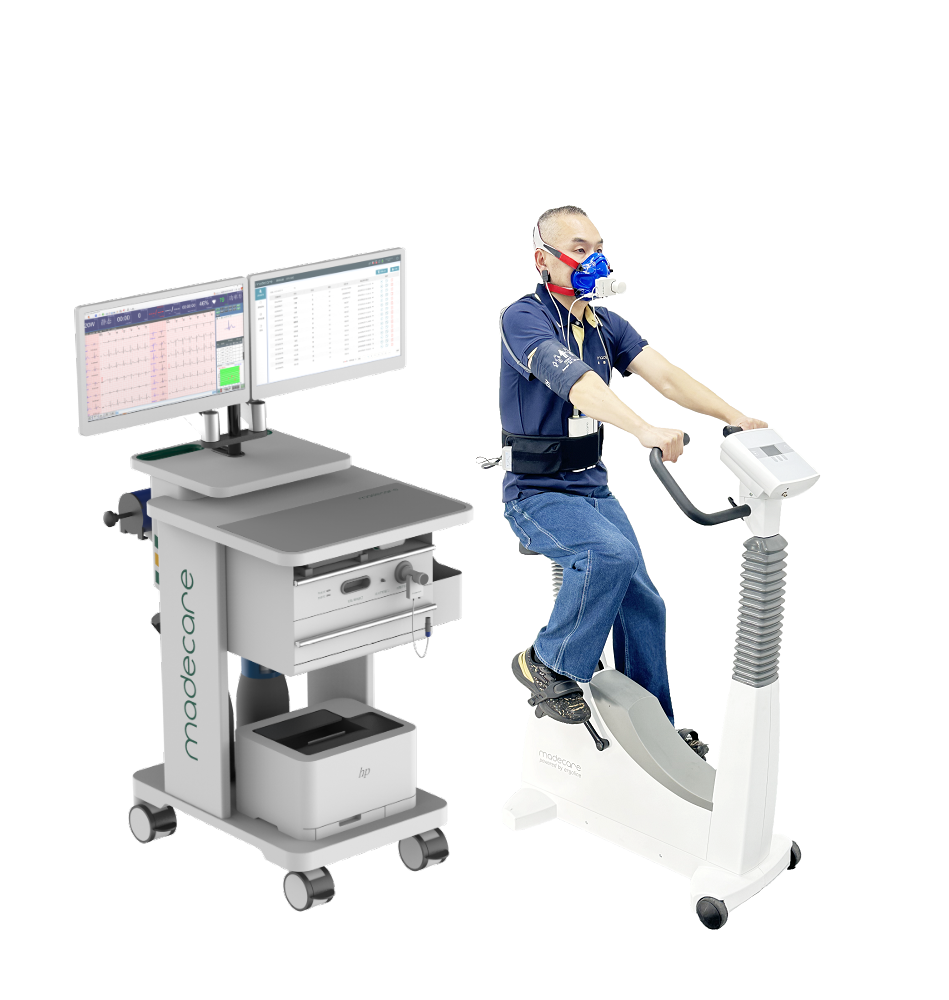
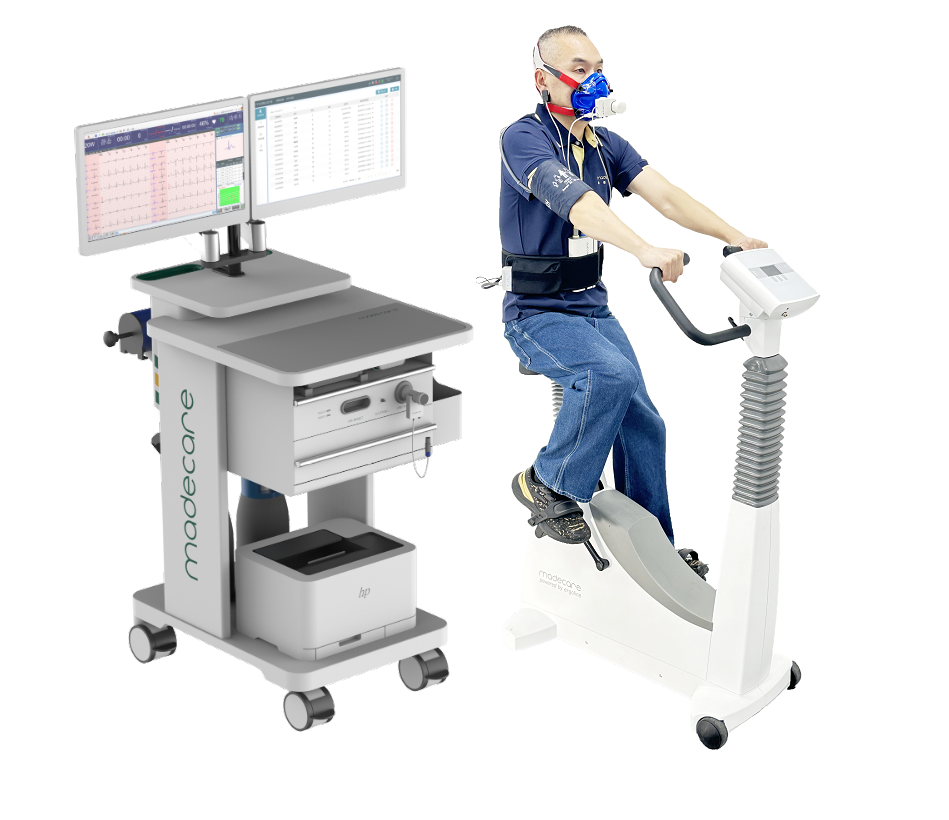
微调了标题和布局

diff --git a/mobile/views/madecare_En/index.html b/mobile/views/madecare_En/index.html
@@ -303,7 +303,7 @@
 								<p class="index-module--Index--kt_h8" style="margin-left:17%;margin-top: 53%;">02</p>
 							</div>
 						</div>
-						<div class="index-module--cpx_image--5HVyQ"><img style="width:130%; max-width:none;" src="../static/cpx_01-ac46733a08919b19c2545dc302897462.png" /></div>
+						<div class="index-module--cpx_image--5HVyQ"><img style="width:130%; max-width:none; margin-top: 2.5rem;" src="../static/cpx_01-ac46733a08919b19c2545dc302897462.png" /></div>
 					</div>
 					<div class="index-module--section--3EWX9" id="p6">
 						<div class="index-module--container--uLOrz">
@@ -409,20 +409,21 @@
 					</div>
 					<div class="index-module--section--3EWX9" id="p7rse">
 						<div class="word_fullscreen" style="display: block;margin-top: 3%;margin-left: 6%;white-space: normal;"><span style="display:inline-block;float:left;   color: #025361; font-weight: 700;"> |</span>&nbsp;&nbsp;Exercise ECG Testing System RSE</div>
-						<div class="word_fullscreen" style="display: block;margin-top: 2%;margin-left: 6%;white-space: normal;">High Anti-interference, High-fidelity Wireless Exercise ECG Testing System</div>
+						
 						<div style="float: left;width: 30%;    height: 100%;">
 							<div class="index-module--Index--kt_h8" style="margin-left: 28%;margin-top: 35%; float: left;">03</div>
 						</div>
 						<div style="    float: left;    width: 70%;">
 							<img style="    margin-top: 8%;" src="../static/rse_01-bdb5525c33f0da88b94d486255ce73b9.png">
 						</div>
+					<div style="width:100%;height:0;border-top:.125rem dashed #025361"></div>
 					</div>
 					<div class="index-module--section--3EWX9" id="p7rsed">
 						<div class="index-module--container--uLOrz">
 							<div class="index-module--cpx--1VqBL"><img src="../static/rse_02-f8d1ac3f93b2570fbf6f749e7b6ae062.png" /></div>
 							<div class="index-module--cpx_info--10ioq">
 								<div class="index-module--cpx_title--oURYN">
-										<div class="word_fullscreen" style="    white-space: nowrap;line-height:190%">Exercise ECG Testing System RSE</div>
+										<div class="word_fullscreen" style="    white-space: nowrap;line-height:190%">High Anti-interference, High-fidelity Wireless Exercise ECG Testing System</div>
 								</div>
 								<div>
 									<div class="index-module--cpx_function--2qBEA">
@@ -516,7 +517,6 @@
 					</div>
 					<div class="index-module--section--3EWX9" id="p7mwt">
 						<div class="word_fullscreen" style="display: block;margin-top: 3%;margin-left: 6%;white-space: normal;"><span style="display:inline-block;float:left;   color: #025361; font-weight: 700;"> |</span>&nbsp;&nbsp;Six-Minute Walk Test System RSE-6MWT</div>
-						<div class="word_fullscreen" style="display: block;margin-top: 2%;margin-left: 6%;white-space: normal;">Highly Integrated, Precise Ranging Six-Minute Walk Test System</div>
 						<div style="float: left;width: 30%;    height: 100%;">
 							<div class="index-module--Index--kt_h8" style="margin-left: 28%;margin-top: 10%; float: left;">04</div>
 						</div>
@@ -528,7 +528,7 @@
 							<div class="index-module--cpx--1VqBL"><img src="../static/mwt_02-f3e27240a00822573c5d9a3c1745a1a6.png" /></div>
 							<div class="index-module--cpx_info--10ioq">
 								<div class="index-module--cpx_title--oURYN">
-										<div class="word_fullscreen" style="    white-space: nowrap;line-height:190%">Six-Minute Walk Test System RSE-6MWT</div>
+										<div class="word_fullscreen" style="    white-space: nowrap;line-height:190%">Highly Integrated, Precise Ranging Six-Minute Walk Test System</div>
 								</div>
 								<div>
 									<div class="index-module--cpx_function--2qBEA">

diff --git a/mobile/views/index_mobile.html b/mobile/views/index_mobile.html
@@ -344,7 +344,7 @@
 								<p class="index-module--Index--kt_h8" style="margin-left:17%;margin-top: 53%;">02</p>
 							</div>
 						</div>
-						<div class="index-module--cpx_image--5HVyQ"><img style="width:130%; max-width:none;" src="./static/cpx_01-ac46733a08919b19c2545dc302897462.png" /></div>
+						<div class="index-module--cpx_image--5HVyQ"><img style="width:130%; max-width:none; margin-top: 2.5rem;" src="./static/cpx_01-ac46733a08919b19c2545dc302897462.png" /></div>
 					</div>
 					<div class="index-module--section--3EWX9" id="p6">
 						<div class="index-module--container--uLOrz">
@@ -450,20 +450,21 @@
 					</div>
 					<div class="index-module--section--3EWX9" id="p7rse">
 						<div class="word_fullscreen" style="display: block;margin-top: 3%;margin-left: 6%;white-space: normal;"><span style="display:inline-block;float:left;   color: #025361; font-weight: 700;"> |</span>&nbsp;&nbsp;运动心电测试系统RSE</div>
-						<div class="word_fullscreen" style="display: block;margin-top: 2%;margin-left: 6%;white-space: normal;">高抗干扰、高保真的无线运动心电测试系统</div>
+						
 						<div style="float: left;width: 30%;    height: 100%;">
 							<div class="index-module--Index--kt_h8" style="margin-left: 28%;margin-top: 20%; float: left;">03</div>
 						</div>
 						<div style="    float: left;    width: 70%;">
 							<img style="    margin-top: 8%;" src="./static/rse_01-bdb5525c33f0da88b94d486255ce73b9.png">
 						</div>
+					<div style="width:100%;height:0;border-top:.125rem dashed #025361"></div>
 					</div>
 					<div class="index-module--section--3EWX9" id="p7rsed">
 						<div class="index-module--container--uLOrz">
 							<div class="index-module--cpx--1VqBL"><img src="./static/rse_02-f8d1ac3f93b2570fbf6f749e7b6ae062.png" /></div>
 							<div class="index-module--cpx_info--10ioq">
 								<div class="index-module--cpx_title--oURYN">
-										<div class="word_fullscreen" style="    white-space: nowrap;line-height:190%">运动心电测试系统RSE</div>
+										<div class="word_fullscreen" style="    white-space: nowrap;line-height:190%">高抗干扰、高保真的无线运动心电测试系统</div>
 								</div>
 								<div>
 									<div class="index-module--cpx_function--2qBEA">
@@ -557,7 +558,6 @@
 					</div>
 					<div class="index-module--section--3EWX9" id="p7mwt">
 						<div class="word_fullscreen" style="display: block;margin-top: 3%;margin-left: 6%;white-space: normal;"><span style="display:inline-block;float:left;   color: #025361; font-weight: 700;"> |</span>&nbsp;&nbsp;六分钟步行实验测试系统RSE-6MWT</div>
-						<div class="word_fullscreen" style="display: block;margin-top: 2%;margin-left: 6%;white-space: normal;">高集成度、精准测距的六分钟步行实验测试系统</div>
 						<div style="float: left;width: 30%;    height: 100%;">
 							<div class="index-module--Index--kt_h8" style="margin-left: 28%;margin-top: 10%; float: left;">04</div>
 						</div>
@@ -569,7 +569,7 @@
 							<div class="index-module--cpx--1VqBL"><img src="./static/mwt_02-f3e27240a00822573c5d9a3c1745a1a6.png" /></div>
 							<div class="index-module--cpx_info--10ioq">
 								<div class="index-module--cpx_title--oURYN">
-										<div class="word_fullscreen" style="    white-space: nowrap;line-height:190%">六分钟步行实验测试系统RSE-6MWT</div>
+										<div class="word_fullscreen" style="    white-space: nowrap;line-height:190%">高集成度、精准测距的六分钟步行实验测试系统</div>
 								</div>
 								<div>
 									<div class="index-module--cpx_function--2qBEA">
